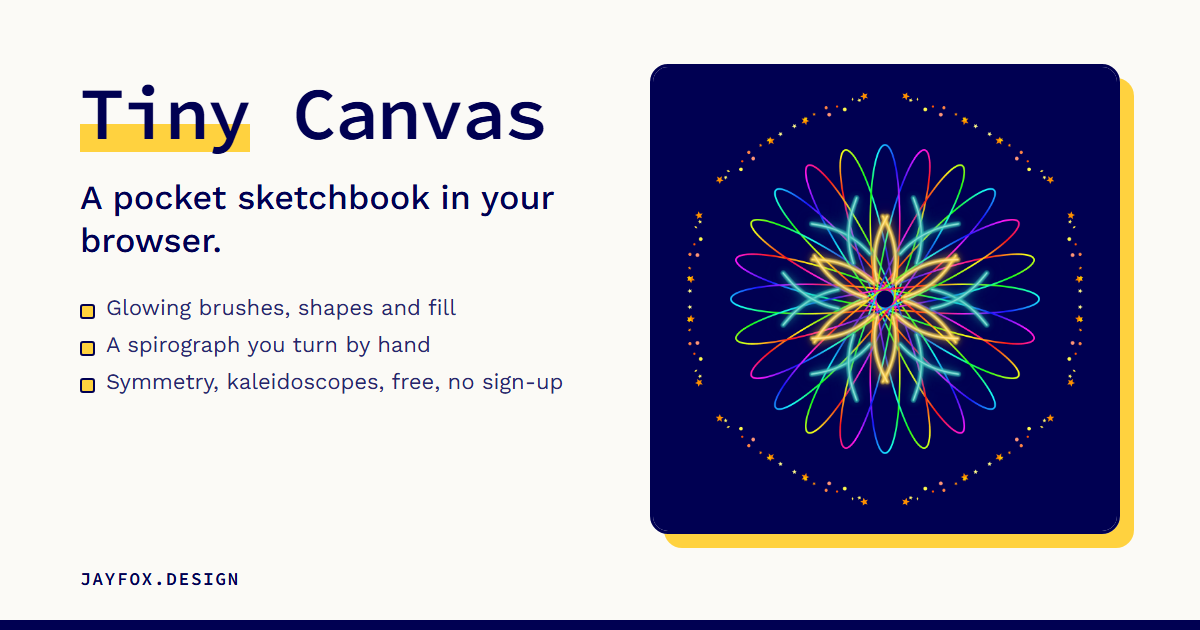
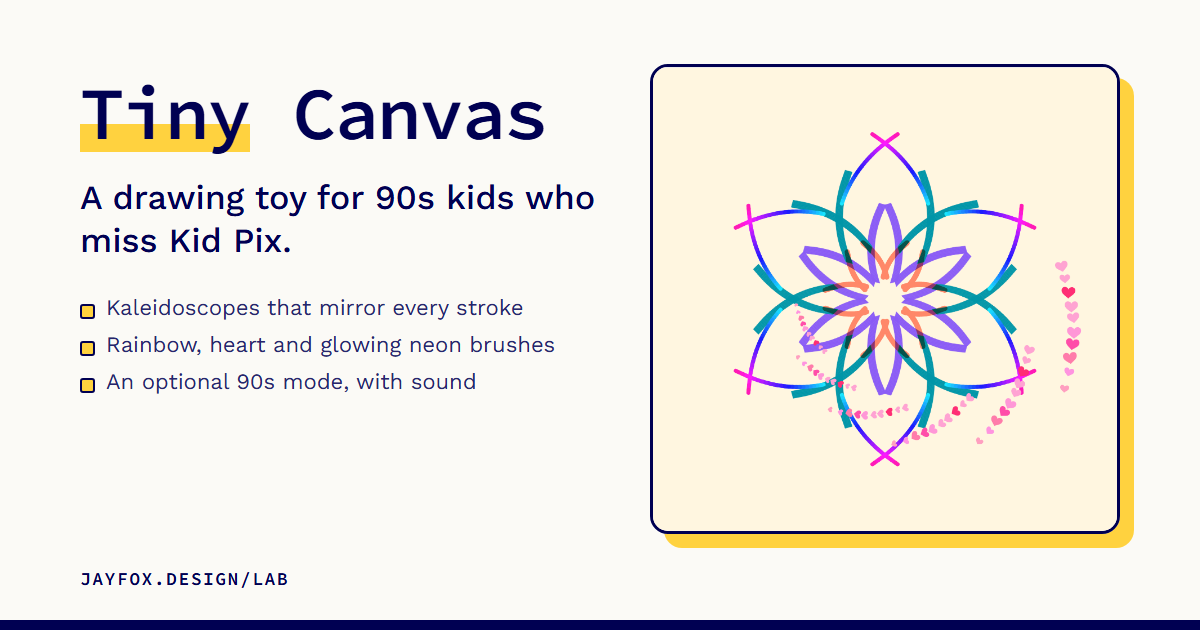
Share image and descriptions: kaleidoscope drawing, the Kid Pix line and 90s mode

diff --git a/index.html b/index.html
@@ -5,7 +5,7 @@
     <meta name="viewport" content="width=device-width, initial-scale=1.0" />
     <meta
       name="description"
-      content="A pocket sketchbook in your browser: glowing brushes, shapes, fill, symmetry and a spirograph you turn by hand. Free, no sign-up."
+      content="A drawing toy for 90s kids who miss Kid Pix: kaleidoscopes and symmetry, rainbow, heart and glowing neon brushes, shapes, fill, a spirograph, and an optional 90s mode with sound. Free, no sign-up."
     />
     <title>Tiny Canvas</title>
     <meta name="theme-color" content="#000052" />
@@ -14,26 +14,26 @@
     <meta property="og:title" content="Tiny Canvas" />
     <meta
       property="og:description"
-      content="A pocket sketchbook in your browser: glowing brushes, shapes, fill, symmetry and a spirograph you turn by hand. Free, no sign-up."
+      content="A drawing toy for 90s kids who miss Kid Pix: kaleidoscopes and symmetry, rainbow, heart and glowing neon brushes, shapes, fill, a spirograph, and an optional 90s mode with sound. Free, no sign-up."
     />
     <meta property="og:image" content="%SHARE_IMAGE%" />
     <meta property="og:image:width" content="1200" />
     <meta property="og:image:height" content="630" />
     <meta
       property="og:image:alt"
-      content="Tiny Canvas: a glowing rainbow spirograph and neon kaleidoscope drawing on navy, next to the title and a short list of features."
+      content="Tiny Canvas: a drawing toy for 90s kids who miss Kid Pix. A violet, teal and rainbow kaleidoscope drawing with a spiral of hearts, next to the title and three features."
     />
     %SHARE_URL_TAG% %SEO_TAGS%
     <meta name="author" content="Jay Fox" />
     <meta
       name="twitter:image:alt"
-      content="Tiny Canvas: a glowing rainbow spirograph and neon kaleidoscope drawing on navy, next to the title and a short list of features."
+      content="Tiny Canvas: a drawing toy for 90s kids who miss Kid Pix. A violet, teal and rainbow kaleidoscope drawing with a spiral of hearts, next to the title and three features."
     />
     <meta name="twitter:card" content="summary_large_image" />
     <meta name="twitter:title" content="Tiny Canvas" />
     <meta
       name="twitter:description"
-      content="A pocket sketchbook in your browser. Free, no sign-up."
+      content="A drawing toy for 90s kids who miss Kid Pix. Kaleidoscopes, glowing brushes and a 90s mode. Free, no sign-up."
     />
     <meta name="twitter:image" content="%SHARE_IMAGE%" />
     <link rel="icon" href="./favicon.svg" type="image/svg+xml" />
